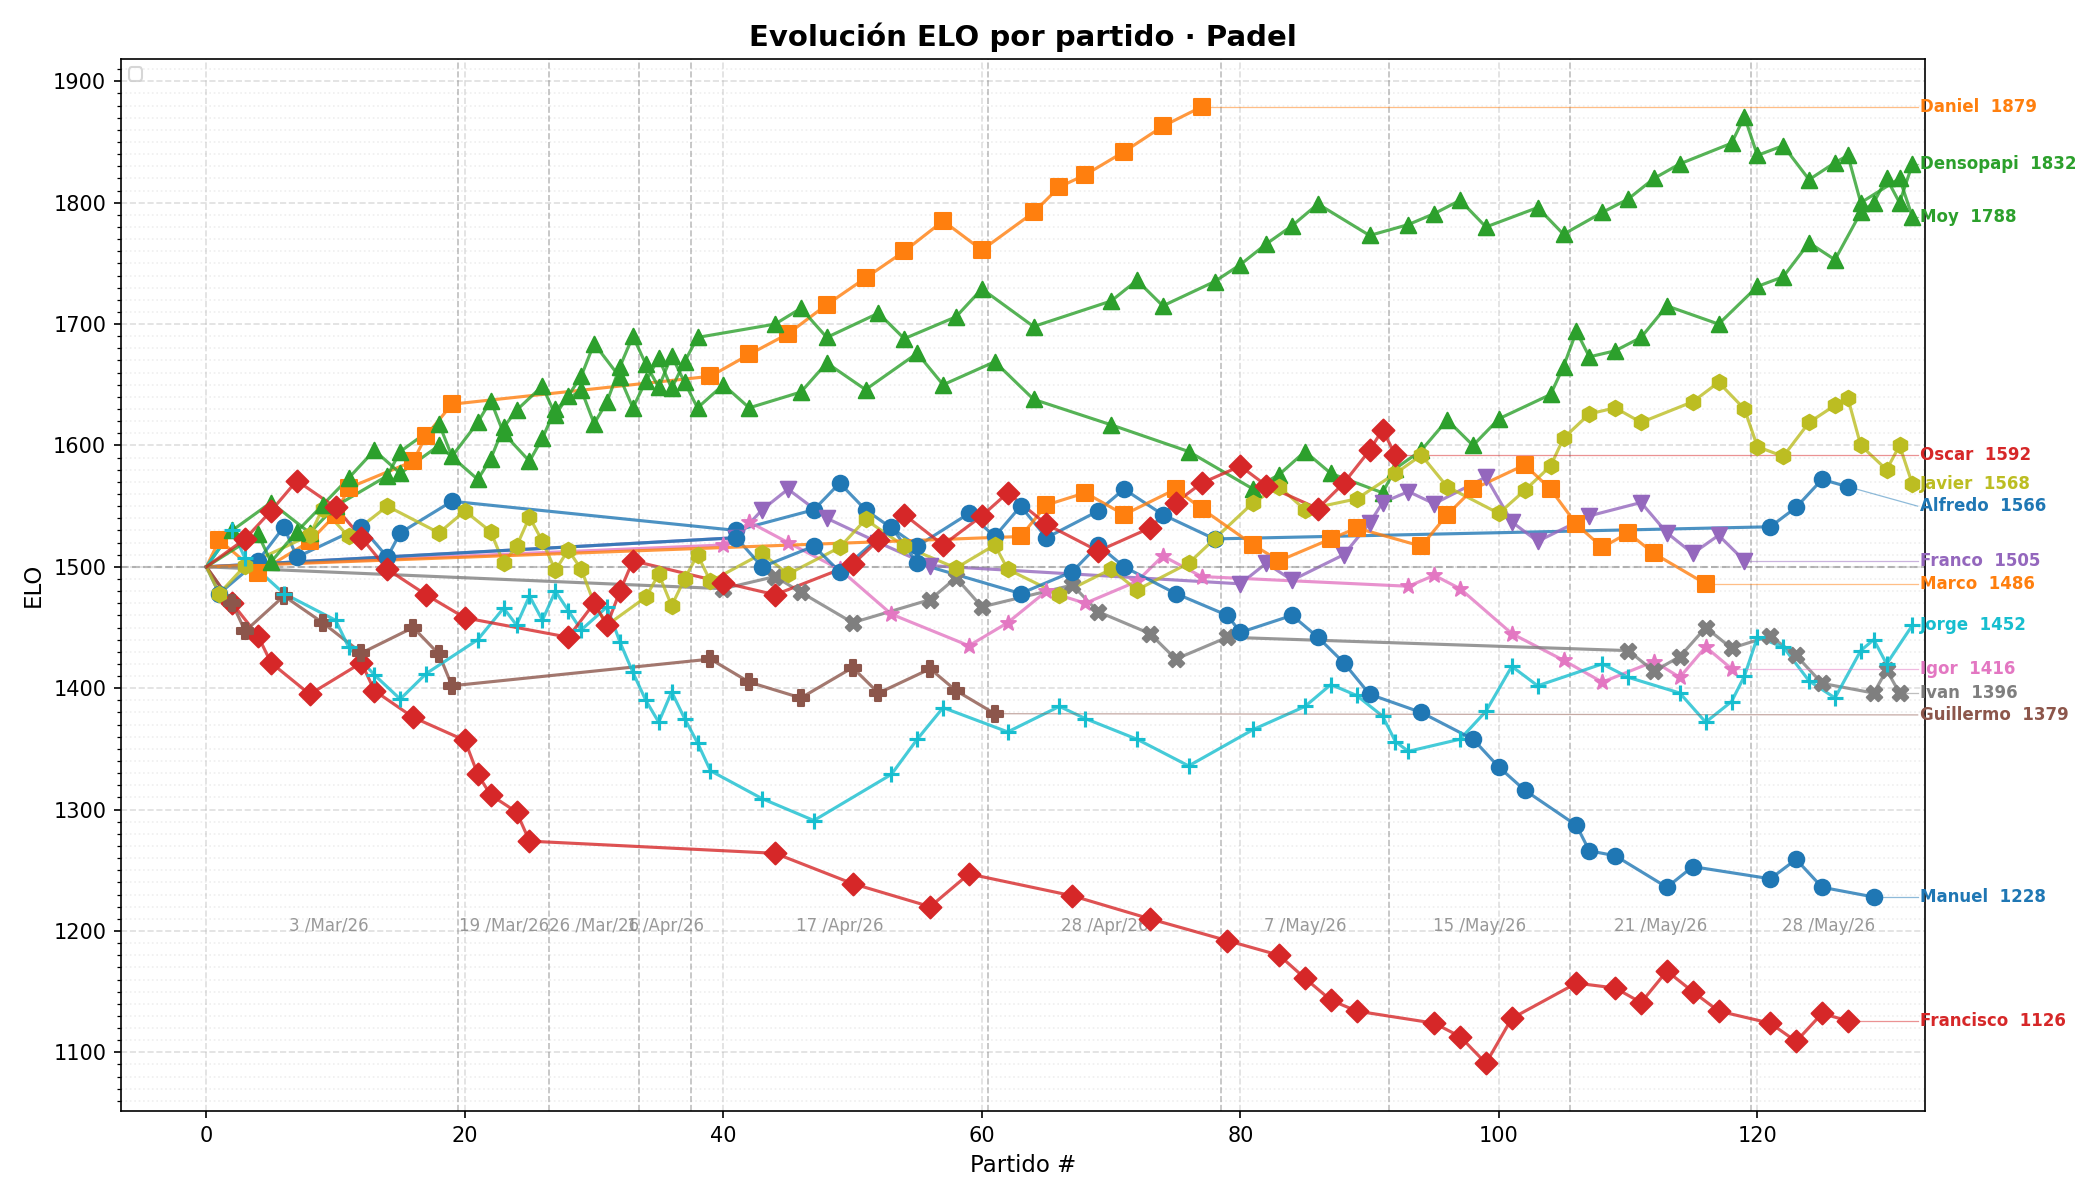
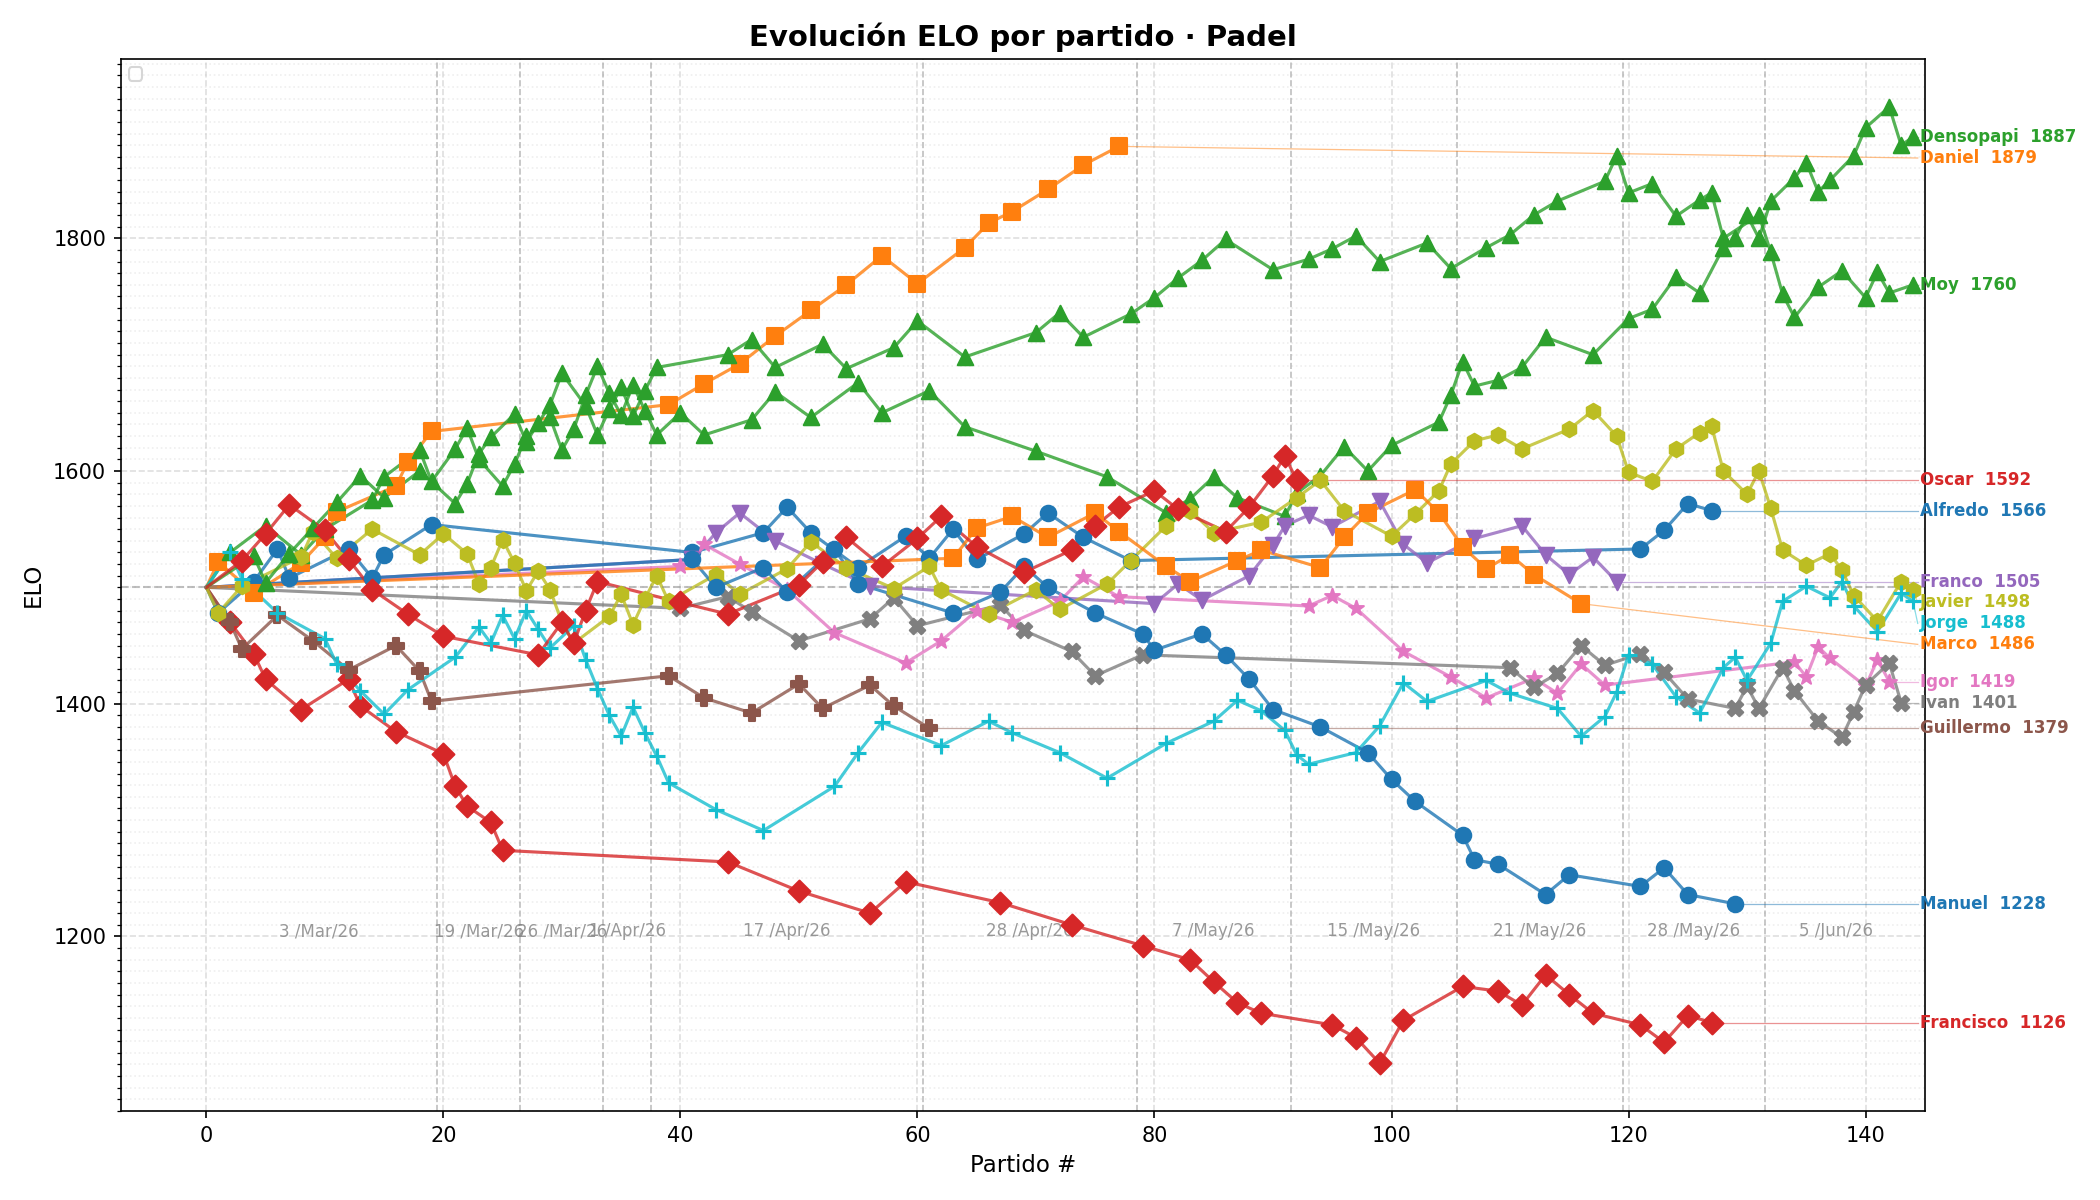
update

diff --git a/padel_elo.py b/padel_elo.py
@@ -164,7 +164,19 @@ MATCHES_CSV = """Fecha,Ronda,Pista,Equipo 1,Equipo 2,Marcador
 28 /May/26,6,1,Jorge / Densopapi,Ivan / Manuel,6 - 1
 28 /May/26,7,1,Ivan / Densopapi,Jorge / Javier,3 - 1
 28 /May/26,8,1,Ivan / Densopapi,Moy / Javier,1 - 3
-28 /May/26,9,1,Jorge / Densopapi,Moy / Javier,3 - 1"""
+28 /May/26,9,1,Jorge / Densopapi,Moy / Javier,3 - 1
+5 /Jun/26,1,1,Moy / Javier,Ivan / Jorge,2 - 3
+5 /Jun/26,2,1,Moy / Ivan,Igor / Densopapi,2 - 3
+5 /Jun/26,3,1,Igor / Javier,Densopapi / Jorge,1 - 4
+5 /Jun/26,4,1,Moy / Igor,Densopapi / Ivan,3 - 2
+5 /Jun/26,5,1,Igor / Jorge,Densopapi / Javier,2 - 3
+5 /Jun/26,6,1,Moy / Jorge,Ivan / Javier,4 - 1
+5 /Jun/26,7,1,Ivan / Densopapi,Jorge / Javier,3 - 0
+5 /Jun/26,8,1,Ivan / Densopapi,Moy / Igor,3 - 1
+5 /Jun/26,9,1,Javier / Jorge,Moy / Igor,0 - 3
+5 /Jun/26,10,1,Ivan / Densopapi,Moy / Igor,3 - 2
+5 /Jun/26,11,1,Jorge / Javier,Ivan / Densopapi,3 - 2
+5 /Jun/26,12,1,Moy / Densopapi,Javier / Jorge,3 - 1"""
 
 
 def normalize_name(name: str) -> str:

diff --git a/README.md b/README.md
@@ -100,7 +100,7 @@ Tabla global con ELO total, victorias, derrotas, porcentaje de victorias, partid
 
 Una gráfica de líneas con la evolución del ELO de cada jugador sesión a sesión, guardada automáticamente en el directorio del proyecto.
 
-![Ejemplo de gráfica ELO](elo_evolution.png?v=8)
+![Ejemplo de gráfica ELO](elo_evolution.png?v=9)
 
 ---
 
@@ -290,14 +290,33 @@ Los resultados de los partidos están registrados en el siguiente spreadsheet:
 |---|---------|-----|
 | 🥇 | Daniel | 1879 |
 | 🥈 | Densopapi | 1832 |
-| 🥈 | Moy | 1788 |
+| 🥉 | Moy | 1788 |
 | 4 | Oscar | 1592 |
 | 5 | Javier | 1568 |
 | 6 | Alfredo | 1566 |
 | 7 | Franco | 1505 |
 | 8 | Jorge | 1452 |
-| 9 | Ivan | 1396 |
-| 10 | Igor | 1416 |
+| 9 | Igor | 1416 |
+| 10 | Ivan | 1396 |
+| 11 | Guillermo | 1379 |
+| 12 | Roy | 1377 |
+| 13 | Manuel | 1228 |
+| 14 | Francisco | 1126 |
+
+### 5/Jun/26
+
+| # | Jugador | ELO |
+|---|---------|-----|
+| 🥇 | Densopapi | 1887 |
+| 🥈 | Daniel | 1879 |
+| 🥉 | Moy | 1760 |
+| 4 | Oscar | 1592 |
+| 5 | Alfredo | 1566 |
+| 6 | Franco | 1505 |
+| 7 | Javier | 1498 |
+| 8 | Jorge | 1488 |
+| 9 | Igor | 1419 |
+| 10 | Ivan | 1401 |
 | 11 | Guillermo | 1379 |
 | 12 | Roy | 1377 |
 | 13 | Manuel | 1228 |
